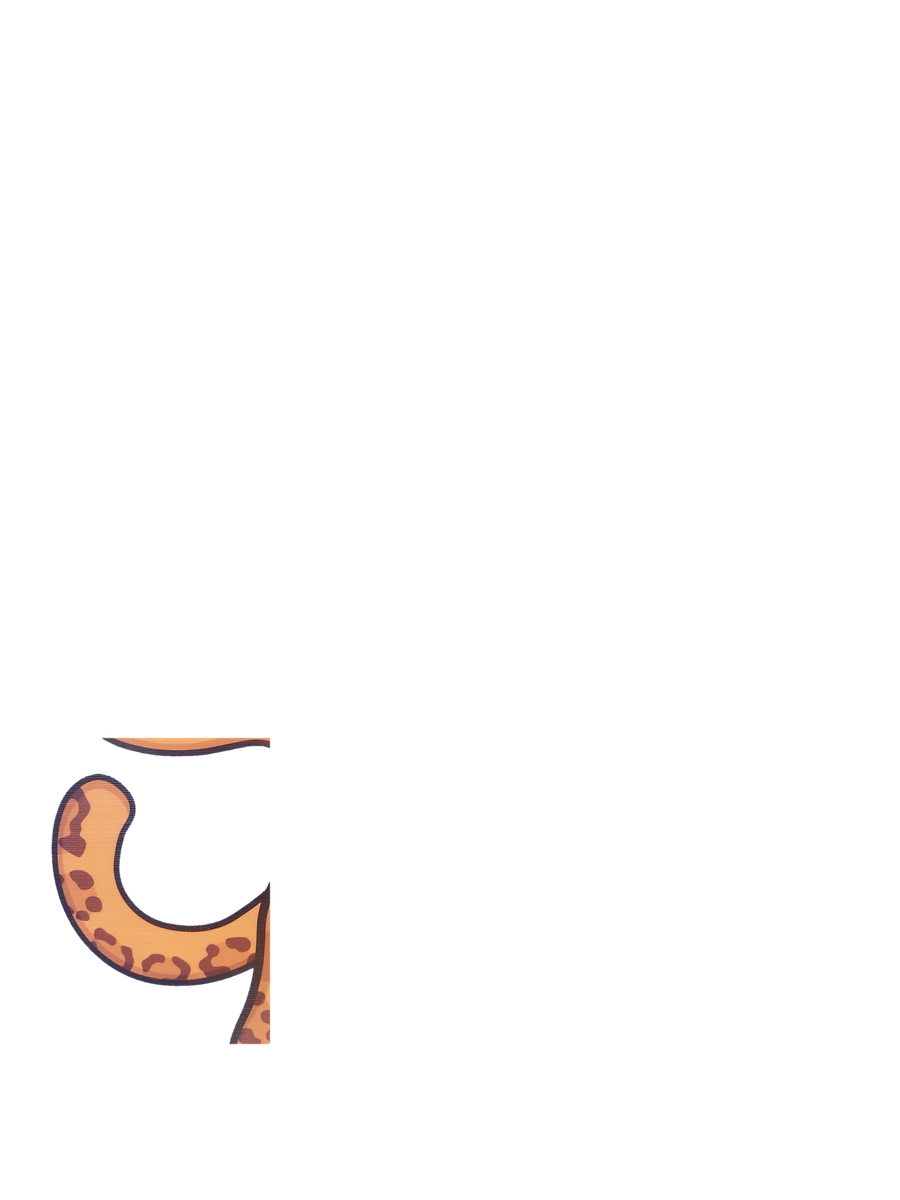
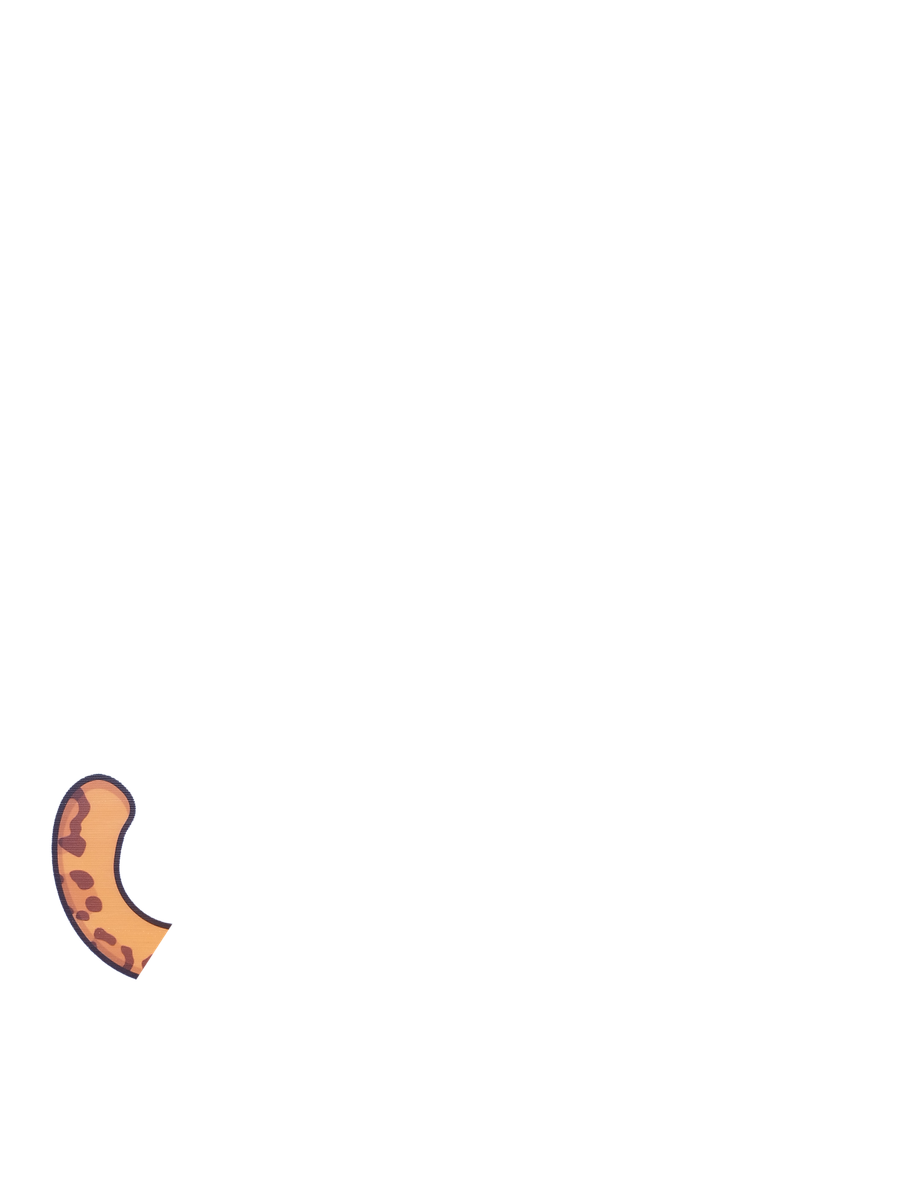
Cola: recorte correcto (solo la cola, sin brazo ni pierna)
- Aislo la cola con un poligono que excluye el brazo y las piernas
- Regenero capas (cuerpo sin cola + cola transparente) y pivote real
  en la base de la cola (transform-origin 11% 64%)
- Quito el translateY anterior; la cola queda en su lugar correcto

Changed region(s): [[0.1556, 0.74, 0.3111, 0.8942], [0.1244, 0.6167, 0.3111, 0.6475]]

diff --git a/css/estilos.css b/css/estilos.css
@@ -101,13 +101,13 @@ h1 {
 
 /* Cola: se balancea sola desde su base (la cadera), de forma natural */
 #colaAvatar {
-  transform-origin: 29% 76%;
+  transform-origin: 11% 64%;
   animation: colear 3.4s ease-in-out infinite alternate;
 }
 
 @keyframes colear {
-  from { transform: translateY(-6%) rotate(-6deg); }
-  to   { transform: translateY(-6%) rotate(7deg); }
+  from { transform: rotate(-7deg); }
+  to   { transform: rotate(8deg); }
 }
 
 @keyframes respirar {

diff --git a/_tail_tool.py b/_tail_tool.py
@@ -1,70 +1,57 @@
-from PIL import Image, ImageFilter
+from PIL import Image, ImageFilter, ImageDraw
 import numpy as np
 
 im = Image.open('assets/mascota.jpg').convert('RGB')
-arr = np.array(im).astype(int)
-H, W = arr.shape[:2]
+W, H = im.size
+full = np.array(im).astype(int)
 
-# Caja de la cola (abajo-izquierda)
-x0, y0, x1, y1 = 130, 2460, 1060, 3480
-sub = arr[y0:y1, x0:x1]
-R, G, B = sub[:, :, 0], sub[:, :, 1], sub[:, :, 2]
-bw = x1 - x0
+# Poligono SOLO de la cola (coords globales)
+poly_g = [(220, 2540), (560, 2520), (700, 2630), (700, 2880),
+          (560, 3100), (430, 3300), (270, 3400), (140, 3270),
+          (95, 2970), (140, 2700)]
+pm = Image.new('L', (W, H), 0)
+ImageDraw.Draw(pm).polygon(poly_g, fill=255)
+inside = np.array(pm) > 0
 
-# Clasificacion dentro de la caja
+R, G, B = full[:, :, 0], full[:, :, 1], full[:, :, 2]
 azul = (B > 120) & (B > R + 25)
-xs = np.arange(bw)[None, :].repeat(y1 - y0, axis=0)      # x local
-ys_ = np.arange(y1 - y0)[:, None].repeat(bw, axis=1)     # y local
-# La cola es la parte NO azul, en la mitad-izquierda (deja fuera pierna/cadera)
-cola_mask = (~azul) & (xs < 770)
+cola = (~azul) & inside
+print('pixeles cola:', int(cola.sum()))
 
-bb_y, bb_x = np.where(cola_mask)
-print('bbox cola local x[%d-%d] y[%d-%d]' % (bb_x.min(), bb_x.max(), bb_y.min(), bb_y.max()))
+# azul de relleno (cerca de la cola)
+ys, xs = np.where(inside & azul)
+med_blue = np.median(full[ys, xs], axis=0).astype('uint8')
 
-# --- Azul representativo del fondo (para rellenar el cuerpo) ---
-azpx = sub[azul]
-med_blue = np.median(azpx, axis=0).astype('uint8')
-print('azul de relleno:', med_blue.tolist(), 'pixeles cola:', int(cola_mask.sum()))
-
-# --- 1) CAPA COLA: imagen completa transparente salvo la cola ---
-alpha = np.zeros((H, W), dtype='uint8')
-alpha_box = np.where(cola_mask, 255, 0).astype('uint8')
-alpha[y0:y1, x0:x1] = alpha_box
+# 1) CAPA COLA (imagen completa, transparente salvo la cola)
+alpha = np.where(cola, 255, 0).astype('uint8')
 rgba = np.dstack([np.array(im), alpha])
 cola_img = Image.fromarray(rgba, 'RGBA')
-# suavizar un poco el borde del alfa
-a = cola_img.split()[3].filter(ImageFilter.GaussianBlur(1.2))
+a = cola_img.split()[3].filter(ImageFilter.GaussianBlur(1.0))
 cola_img.putalpha(a)
-# Reducir a tamano web (900x1200; el avatar se ve a ~270px)
+
+# 2) CAPA CUERPO (cola borrada con azul)
+body = np.array(im).copy()
+body[cola] = med_blue
+body_img = Image.fromarray(body, 'RGB')
+
+# Pivote = base de la cola (parte alta del gancho)
+ty, tx = np.where(cola)
+top = ty < np.percentile(ty, 8)
+piv_x = int(np.median(tx[top]))
+piv_y = int(ty.min())
+print('PIVOTE %:', round(100 * piv_x / W, 1), round(100 * piv_y / H, 1))
+
+# Guardar reducidas
 OUT_W = 900
 OUT_H = int(H * OUT_W / W)
-cola_small = cola_img.resize((OUT_W, OUT_H), Image.LANCZOS)
-cola_small.save('assets/jaguar-cola.png')
+cola_img.resize((OUT_W, OUT_H), Image.LANCZOS).save('assets/jaguar-cola.png')
+body_img.resize((OUT_W, OUT_H), Image.LANCZOS).save('assets/jaguar-cuerpo.jpg', quality=88)
 
-# --- 2) CAPA CUERPO: foto con la cola borrada (rellena de azul) ---
-body = np.array(im).copy()
-bb = body[y0:y1, x0:x1]
-bb[cola_mask] = med_blue
-body[y0:y1, x0:x1] = bb
-body_small = Image.fromarray(body, 'RGB').resize((900, int(H * 900 / W)), Image.LANCZOS)
-body_small.save('assets/jaguar-cuerpo.jpg', quality=88)
-
-# --- Pivote (base de la cola, donde se une al cuerpo) ---
-ys, xss = np.where(cola_mask)
-# base = donde la cola se une al cuerpo: lado derecho (x alto) y ARRIBA (y bajo)
-thr = np.percentile(xss, 85)
-piv_x = x0 + int(np.percentile(xss, 92))
-piv_y = y0 + int(np.percentile(ys[xss > thr], 15))   # parte alta del lado derecho
-print('PIVOTE global px:', piv_x, piv_y, '=> %', round(100*piv_x/W,1), round(100*piv_y/H,1))
-
-# --- Vista previa: cuerpo + cola en reposo y girada 12 grados ---
-body_im = Image.fromarray(body, 'RGB').convert('RGBA')
-def compose(angle):
-    base = body_im.copy()
-    t = cola_img.rotate(angle, resample=Image.BICUBIC, center=(piv_x, piv_y))
-    base.alpha_composite(t)
-    return base
-prev = compose(12)
-prev.thumbnail((300, 400))
-prev.convert('RGB').save('assets/_preview_cola_giro.png')
+# Preview: cuerpo + cola girada 14 grados, recorte amplio
+prev = body_img.convert('RGBA')
+t = cola_img.rotate(14, resample=Image.BICUBIC, center=(piv_x, piv_y))
+prev.alpha_composite(t)
+prev = prev.crop((0, 2000, 1800, 3900))
+prev.thumbnail((520, 560))
+prev.convert('RGB').save('assets/_grid.png')
 print('preview giro guardado')
